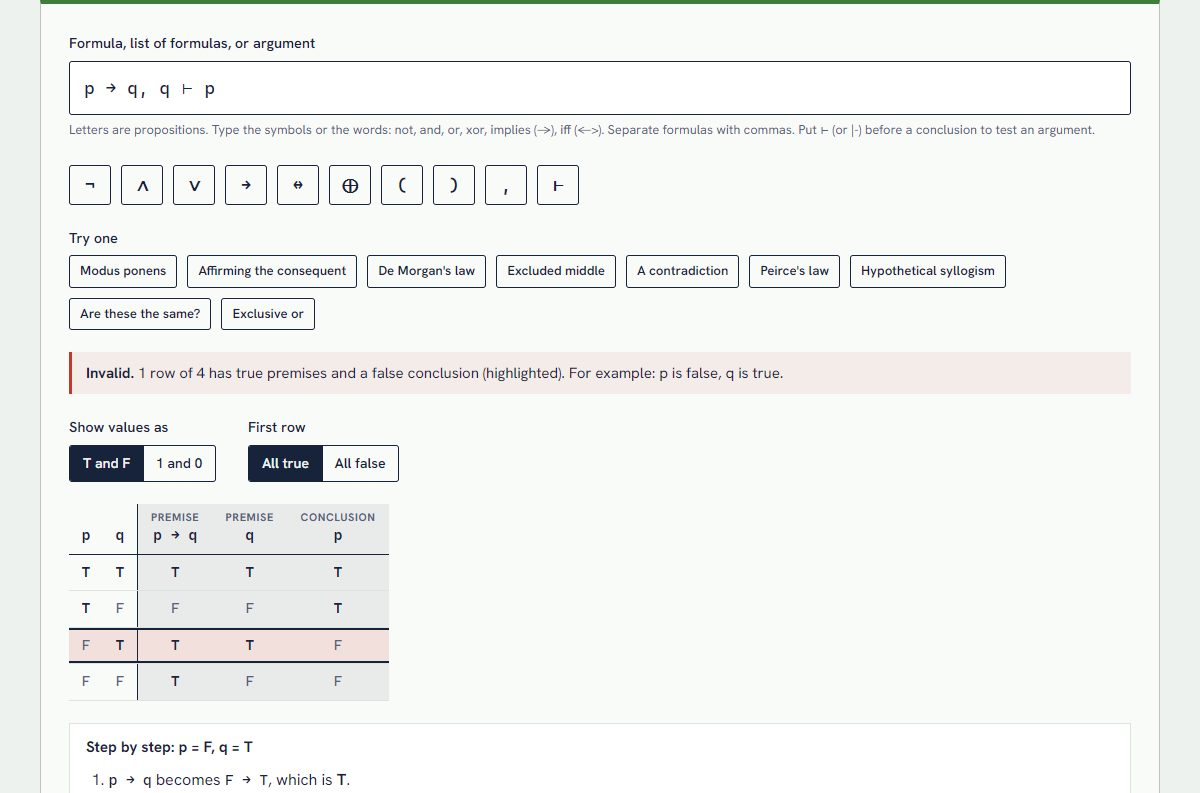
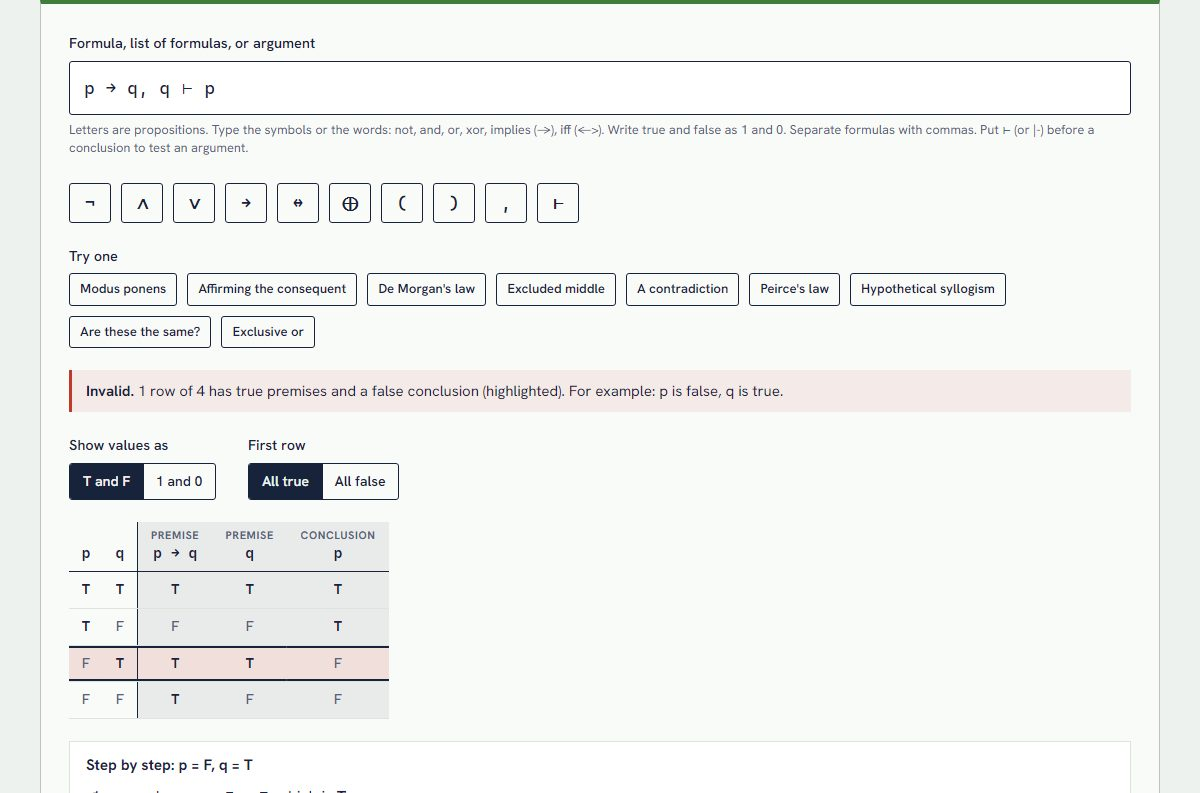
Review project 2: reject contradictions and mismatched brackets, input limits, correct Tractatus references

diff --git a/365projects/2/app.js b/365projects/2/app.js
@@ -28,8 +28,11 @@ input.addEventListener("input", () => { state.text = input.value; state.row = -1
 function insert(symbol) {
   const start = input.selectionStart ?? input.value.length;
   const end = input.selectionEnd ?? start;
-  const pad = ["(", ")", "¬"].includes(symbol) ? symbol : symbol === "," ? ", " : ` ${symbol} `;
-  input.value = input.value.slice(0, start) + pad + input.value.slice(end);
+  const before = input.value.slice(0, start), after = input.value.slice(end);
+  let pad = ["(", ")", "¬"].includes(symbol) ? symbol : symbol === "," ? ", " : ` ${symbol} `;
+  if (pad.startsWith(" ") && (!before || before.endsWith(" "))) pad = pad.slice(1);
+  if (pad.endsWith(" ") && after.startsWith(" ")) pad = pad.slice(0, -1);
+  input.value = before + pad + after;
   const caret = start + pad.length;
   input.focus();
   input.setSelectionRange(caret, caret);
@@ -51,21 +54,26 @@ const orderSeg = segmented({ label: "First row", value: "true", options: [{ valu
 const verdictBox = el("div", { role: "status", "aria-live": "polite" });
 const tableBox = el("div");
 const stepsBox = el("div");
+// Spoken when another row is chosen: what that row works out to. (Typing already announces the verdict.)
+const rowStatus = el("p", { class: "sr-only", role: "status" });
+let rowSummary = "";
 const extraBox = el("div");
 
 $("#app").append(
   el("div", { class: "field" },
     el("div", { class: "lab" }, el("label", { for: "formula", text: "Formula, list of formulas, or argument" })),
     input,
-    el("div", { class: "hint", id: "formula-help" }, "Letters are propositions. Type the symbols or the words: not, and, or, xor, implies (->), iff (<->). Separate formulas with commas. Put ⊢ (or |-) before a conclusion to test an argument.")),
+    el("div", { class: "hint", id: "formula-help" }, "Letters are propositions. Type the symbols or the words: not, and, or, xor, implies (->), iff (<->). Write true and false as 1 and 0. Separate formulas with commas. Put ⊢ (or |-) before a conclusion to test an argument.")),
   keyRow,
   el("div", { class: "field" }, el("div", { class: "lab" }, el("span", { text: "Try one" })), exampleRow),
   verdictBox,
   el("div", { class: "row", style: { gap: "20px 32px", alignItems: "flex-start" } }, marksSeg.el, orderSeg.el),
-  tableBox, stepsBox, extraBox);
+  tableBox, rowStatus, stepsBox, extraBox);
 
 /* ---------- rendering ---------- */
 const plural = (n, word) => `${fmt.int(n)} ${word}${n === 1 ? "" : "s"}`;
+const ROLE_TITLE = { formula: "A formula you typed", premise: "This column is a premise", conclusion: "This column is the conclusion", "premise and conclusion": "This column is both a premise and the conclusion" };
+const focusRow = () => tableBox.querySelector(`tr[data-row="${state.row}"]`)?.focus();
 const describeRow = (r, vars) => (vars.length ? vars.map((v) => `${v} is ${r.env[v] ? "true" : "false"}`).join(", ") : "the only row");
 
 function verdictNote(result) {
@@ -75,39 +83,44 @@ function verdictNote(result) {
     const f = result.columns.find((c) => c.kind === "main").text;
     if (v.kind === "tautology") return note("good", el("strong", { text: "Tautology. " }), `${f} is true in all ${plural(n, "row")}: no assignment of truth values can make it false.`);
     if (v.kind === "contradiction") return note("bad", el("strong", { text: "Contradiction. " }), `${f} is false in all ${plural(n, "row")}: no assignment of truth values can make it true.`);
-    return note("", el("strong", { text: "Contingent. " }), `${f} is true in ${fmt.int(v.trueRows)} of ${plural(n, "row")} and false in the other ${fmt.int(n - v.trueRows)}, so its truth depends on the facts.`);
+    return note("", el("strong", { text: "Contingent. " }), `${f} is true in ${fmt.int(v.trueRows)} of ${plural(n, "row")} and false in the other ${n - v.trueRows === 1 ? "one" : fmt.int(n - v.trueRows)}, so its truth depends on the facts.`);
   }
   if (v.type === "argument") {
     if (v.valid) {
       const vacuous = v.premisesTogetherTrue === 0 && result.premises.length;
       return note("good", el("strong", { text: "Valid. " }),
         vacuous ? "The premises are never all true together, so no row can have true premises and a false conclusion. The argument is valid, but only because its premises contradict each other."
-          : result.premises.length ? `In every one of the ${plural(v.premisesTogetherTrue, "row")} where all the premises are true, the conclusion is true as well.`
+          : result.premises.length ? `${v.premisesTogetherTrue === 1 ? "In the one row" : `In every one of the ${fmt.int(v.premisesTogetherTrue)} rows`} where ${result.premises.length === 1 ? "the premise is" : "all the premises are"} true, the conclusion is true as well.`
             : "With no premises, the conclusion has to be true in every row, and it is.");
     }
     const first = result.rows[v.counterexamples[0]];
     return note("bad", el("strong", { text: "Invalid. " }),
-      `${plural(v.counterexamples.length, "row")} of ${fmt.int(n)} ${v.counterexamples.length === 1 ? "has" : "have"} true premises and a false conclusion (highlighted). For example: ${describeRow(first, result.vars)}.`);
+      `${plural(v.counterexamples.length, "row")} of ${fmt.int(n)} ${v.counterexamples.length === 1 ? "has" : "have"} ${result.premises.length ? `${result.premises.length === 1 ? "a true premise" : "true premises"} and ` : ""}a false conclusion (highlighted). For example: ${describeRow(first, result.vars)}.`);
   }
-  const lines = v.pairs.map((p) => el("li", {}, el("span", { class: "mono", text: p.a }), p.equivalent ? " and " : " and ", el("span", { class: "mono", text: p.b }),
+  const lines = v.pairs.map((p) => el("li", {}, el("span", { class: "mono", text: p.a }), " and ", el("span", { class: "mono", text: p.b }),
     p.equivalent ? " are equivalent: their columns match in every row." : ` are not equivalent: they differ in ${plural(p.differ.length, "row")}.`));
   return note(v.pairs.every((p) => p.equivalent) ? "good" : "", el("strong", { text: `${plural(v.each.length, "formula")} compared. ` }),
-    `All of them are true together in ${plural(v.jointlyTrue, "row")} of ${fmt.int(n)}.`, el("ul", { class: "pairs" }, lines));
+    `${v.each.length === 2 ? "Both" : "All of them"} are true together in ${plural(v.jointlyTrue, "row")} of ${fmt.int(n)}.`, el("ul", { class: "pairs" }, lines));
 }
 
 function update() {
   const result = analyse(state.text);
   if (result.error) {
     input.classList.add("invalid");
-    verdictBox.replaceChildren(note("bad", result.error,
-      state.text.trim() ? el("div", { class: "mono caret-line" }, state.text, "\n", " ".repeat(Math.min(result.pos, state.text.length)), "^") : null));
+    // The box is already a polite live region. An alert on every keystroke of a half-typed formula would be too much.
+    const problem = note("bad", result.error,
+      result.pos != null && state.text.trim() ? el("div", { class: "mono caret-line" }, state.text, "\n", " ".repeat(Math.min(result.pos, state.text.length)), "^") : null);
+    problem.removeAttribute("role");
+    verdictBox.replaceChildren(problem);
     tableBox.replaceChildren();
     stepsBox.replaceChildren();
     extraBox.replaceChildren();
     return;
   }
   input.classList.remove("invalid");
-  verdictBox.replaceChildren(verdictNote(result));
+  const verdict = verdictNote(result);
+  verdict.removeAttribute("role"); // "Invalid" is an answer, not an alarm: the polite live region around it is enough
+  verdictBox.replaceChildren(verdict);
 
   const order = result.rows.map((_, i) => i);
   if (state.order === "false") order.reverse();
@@ -122,42 +135,48 @@ function update() {
 
   const head = el("tr", {},
     result.vars.map((v) => el("th", { scope: "col", class: "var", text: v })),
-    result.columns.map((c, i) => el("th", { scope: "col", class: `${c.kind}${i === 0 ? " first" : ""}`, title: c.role ? `This column is the ${c.role}` : "A step on the way" },
+    result.columns.map((c, i) => el("th", { scope: "col", class: `${c.kind}${i === 0 ? " first" : ""}`, title: ROLE_TITLE[c.role] || "A step on the way" },
       c.role && c.role !== "formula" ? el("span", { class: "role", text: c.role }) : null, c.text)));
   const body = shown.map((i) => {
     const r = result.rows[i];
-    return el("tr", { class: `${i === state.row ? "sel" : ""}${counter.has(i) ? " counter" : ""}`, tabindex: "0", "aria-selected": String(i === state.row), dataset: { row: i },
+    // One tab stop for the whole table: the selected row. The arrow keys move between rows.
+    return el("tr", { class: `${i === state.row ? "sel" : ""}${counter.has(i) ? " counter" : ""}`, tabindex: i === state.row ? "0" : "-1", "aria-selected": String(i === state.row), dataset: { row: i },
       title: "Show how this row is worked out" },
       result.vars.map((v) => el("td", { class: `var ${r.env[v] ? "t" : "f"}`, text: mark(r.env[v]) })),
       r.values.map((val, j) => el("td", { class: `${result.columns[j].kind} ${val ? "t" : "f"}${j === 0 ? " first" : ""}`, text: mark(val) })));
   });
-  const tbl = el("table", { class: "tbl truth" }, el("caption", { class: "sr-only", text: "Truth table. Select a row to see it evaluated step by step." }), el("thead", {}, head), el("tbody", {}, body));
-  const pickRow = (target) => {
-    const tr = target.closest("tr[data-row]");
-    if (tr) { state.row = Number(tr.dataset.row); update(); tableBox.querySelector(`tr[data-row="${state.row}"]`)?.focus(); }
-  };
-  tbl.addEventListener("click", (e) => pickRow(e.target));
-  tbl.addEventListener("keydown", (e) => { if (e.key === "Enter" || e.key === " ") { e.preventDefault(); pickRow(e.target); } });
+  const tbl = el("table", { class: "tbl truth" }, el("caption", { class: "sr-only", text: "Truth table. Select a row to see it evaluated step by step. The up and down arrow keys move between rows." }), el("thead", {}, head), el("tbody", {}, body));
+  const pickRow = (row) => { state.row = row; update(); focusRow(); rowStatus.textContent = rowSummary; };
+  tbl.addEventListener("click", (e) => { const tr = e.target.closest("tr[data-row]"); if (tr) pickRow(Number(tr.dataset.row)); });
+  tbl.addEventListener("keydown", (e) => {
+    const at = shown.indexOf(state.row);
+    const to = { ArrowDown: at + 1, ArrowUp: at - 1, Home: 0, End: shown.length - 1 }[e.key];
+    if (to == null || !e.target.closest("tr[data-row]")) return;
+    e.preventDefault();
+    if (to >= 0 && to < shown.length) pickRow(shown[to]);
+  });
 
   tableBox.replaceChildren(el("div", { class: "tbl-wrap" }, tbl));
   if (order.length > limit) {
     tableBox.append(el("div", { class: "row", style: { marginTop: "10px" } },
       el("span", { class: "small muted", text: `Showing ${fmt.int(limit)} of ${fmt.int(order.length)} rows. The verdict above uses all of them.` }),
-      button(`Show all ${fmt.int(order.length)}`, () => { state.showAll = true; update(); }, { small: true })));
+      button(`Show all ${fmt.int(order.length)}`, () => { state.showAll = true; update(); focusRow(); }, { small: true })));
   }
 
   const row = result.rows[state.row];
   const list = steps(result, state.row, mark);
   let rowVerdict = null;
   if (result.verdict.type === "argument") {
-    const falsePremise = result.columns.find((c, j) => c.role === "premise" && !row.values[j]);
-    const conclusionTrue = row.values[result.columns.findIndex((c) => c.role === "conclusion")];
+    const falsePremise = result.premises.find((_, k) => !result.verdict.premiseValues[k][state.row]);
+    const conclusionTrue = result.verdict.conclusionValues[state.row];
+    const allPremises = result.premises.length === 1 ? "The premise is" : "Every premise is";
     rowVerdict = falsePremise
-      ? `The premise ${falsePremise.text} is false in this row, so the row cannot count against the argument, whatever the conclusion is.`
+      ? `The premise ${falsePremise} is false in this row, so the row cannot count against the argument, whatever the conclusion is.`
       : conclusionTrue
-        ? `${result.premises.length ? "Every premise is true in this row and the conclusion is true as well" : "The conclusion is true in this row"}, so the row is no threat to the argument.`
-        : `${result.premises.length ? "Every premise is true in this row and the conclusion is false" : "The conclusion is false in this row"}. This is a counterexample: it shows the argument is invalid.`;
+        ? `${result.premises.length ? `${allPremises} true in this row and the conclusion is true as well` : "The conclusion is true in this row"}, so the row is no threat to the argument.`
+        : `${result.premises.length ? `${allPremises} true in this row and the conclusion is false` : "The conclusion is false in this row"}. This is a counterexample: it shows the argument is invalid.`;
   }
+  rowSummary = [list.map((s) => `${s.formula} is ${s.value ? "true" : "false"}`).join(", "), rowVerdict].filter(Boolean).join(". ");
   stepsBox.replaceChildren(el("div", { class: "panel" },
     el("h3", { text: `Step by step: ${result.vars.length ? result.vars.map((v) => `${v} = ${mark(row.env[v])}`).join(", ") : "no letters to assign"}` }),
     list.length
@@ -171,8 +190,10 @@ function update() {
     extraBox.replaceChildren(el("div", { class: "panel" },
       el("h3", { text: "The same truth function in normal form" }),
       el("dl", { class: "forms" },
-        el("dt", { text: "Disjunctive (one bracket for each true row)" }), el("dd", { class: "mono", text: result.normal.dnf }),
-        el("dt", { text: "Conjunctive (one bracket for each false row)" }), el("dd", { class: "mono", text: result.normal.cnf }))));
+        el("dt", { text: "Disjunctive (one term for each true row; ⊥ if there is none)" }), el("dd", { class: "mono", text: result.normal.dnf }),
+        el("dt", { text: "Conjunctive (one term for each false row; ⊤ if there is none)" }), el("dd", { class: "mono", text: result.normal.cnf }))));
+  } else if (result.normal) {
+    extraBox.replaceChildren(el("p", { class: "small muted", text: `The normal forms are left out for formulas with more than 4 letters: this one could need ${fmt.int(result.rows.length)} terms.` }));
   } else extraBox.replaceChildren();
 }
 

diff --git a/365projects/2/logic.js b/365projects/2/logic.js
@@ -1,6 +1,8 @@
 // Day 2: Truth Table Playground. Parser and evaluator for propositional logic, with no DOM code.
 
 export const MAX_VARS = 10;
+export const MAX_LENGTH = 1000;
+const MAX_DEPTH = 100;
 
 const WORDS = {
   not: "not", and: "and", or: "or", xor: "xor", nand: "nand", nor: "nor",
@@ -8,7 +10,7 @@ const WORDS = {
 };
 // Longest spellings first so "<->" is not read as "<" followed by "->".
 const SYMBOLS = [
-  ["<->", "iff"], ["<=>", "iff"], ["->", "imp"], ["=>", "imp"], ["&&", "and"], ["||", "or"], ["|-", "turnstile"],
+  ["<->", "iff"], ["<=>", "iff"], ["->", "imp"], ["=>", "imp"], ["&&", "and"], ["||", "or"], ["|-", "turnstile"], ["==", "iff"], ["!=", "xor"],
   ["¬", "not"], ["~", "not"], ["!", "not"], ["∧", "and"], ["&", "and"], ["·", "and"], ["∨", "or"], ["|", "or"],
   ["⊕", "xor"], ["^", "xor"], ["→", "imp"], ["⇒", "imp"], ["↔", "iff"], ["⇔", "iff"], ["=", "iff"],
   ["↑", "nand"], ["↓", "nor"], ["⊢", "turnstile"], ["∴", "turnstile"], ["⊤", "true"], ["⊥", "false"],
@@ -28,7 +30,8 @@ export function tokenize(text) {
   while (i < text.length) {
     const ch = text[i];
     if (/\s/.test(ch)) { i++; continue; }
-    const word = /^[A-Za-z_][A-Za-z0-9_']*/.exec(text.slice(i));
+    // Any alphabet will do for a letter, so φ → ψ works as well as p → q.
+    const word = /^[\p{L}_][\p{L}\p{N}_']*/u.exec(text.slice(i));
     if (word) {
       const w = word[0];
       const key = WORDS[w.toLowerCase()];
@@ -51,6 +54,9 @@ function parseTokens(tokens, textLength) {
   const at = (...types) => peek() && types.includes(peek().type);
   const describe = (t) => (t ? `"${t.raw}"` : "the end of the formula");
   const where = (t) => (t ? t.pos : textLength);
+  const startsFormula = (t) => t && ["var", "(", "not", "true", "false"].includes(t.type);
+  const meet = (t) => new ParseError(`Two formulas meet at position ${t.pos + 1} with no connective between them. Add ∧, ∨, → or a comma.`, t.pos);
+  const open = []; // the brackets currently open, innermost last
 
   const binary = (next, ops, rightAssoc = false) => function level() {
     let left = next();
@@ -71,13 +77,28 @@ function parseTokens(tokens, textLength) {
     if (t.type === "var") { k++; return { op: "var", name: t.name }; }
     if (t.type === "true" || t.type === "false") { k++; return { op: "const", value: t.type === "true" }; }
     if (t.type === "(") {
+      if (open.length >= MAX_DEPTH) throw new ParseError(`Brackets are nested more than ${MAX_DEPTH} deep at position ${t.pos + 1}. That is as far as this page goes.`, t.pos);
       k++;
+      if (at(")")) throw new ParseError(`The brackets at position ${t.pos + 1} are empty. Put a formula inside them or remove them.`, t.pos);
+      open.push(t);
       const inner = formula();
-      if (!at(")")) throw new ParseError(`A bracket opened at position ${t.pos + 1} is never closed.`, where(peek()));
+      const next = peek();
+      if (!at(")")) {
+        if (startsFormula(next)) throw meet(next);
+        if (next && (next.type === "sep" || next.type === "turnstile")) throw new ParseError(`${next.type === "sep" ? "A comma" : "⊢"} cannot go inside brackets (position ${next.pos + 1}). It separates whole formulas.`, next.pos);
+        throw new ParseError(`A bracket opened at position ${t.pos + 1} is never closed.`, where(next));
+      }
+      // Round and square brackets both work, but a pair must be of one kind.
+      if ((t.raw === "(") !== (next.raw === ")")) throw new ParseError(`The bracket opened with ${t.raw} at position ${t.pos + 1} is closed with ${next.raw} at position ${next.pos + 1}. Use the same kind for both.`, next.pos);
+      open.pop();
       k++;
       return inner;
     }
-    if (t.type === ")") throw new ParseError(`There is a closing bracket at position ${t.pos + 1} with nothing to close.`, t.pos);
+    if (t.type === ")") {
+      throw open.length
+        ? new ParseError(`Something is missing before the closing bracket at position ${t.pos + 1}.`, t.pos)
+        : new ParseError(`There is a closing bracket at position ${t.pos + 1} with nothing to close.`, t.pos);
+    }
     throw new ParseError(`Expected a letter, a bracket or ¬ at position ${t.pos + 1}, but found ${describe(t)}.`, t.pos);
   }
   const and = binary(unary, ["and", "nand"]);
@@ -99,9 +120,7 @@ function parseTokens(tokens, textLength) {
   }
   if (k < tokens.length) {
     const t = peek();
-    if (t.type === "var" || t.type === "(" || t.type === "not" || t.type === "true" || t.type === "false") {
-      throw new ParseError(`Two formulas meet at position ${t.pos + 1} with no connective between them. Add ∧, ∨, → or a comma.`, t.pos);
-    }
+    if (startsFormula(t)) throw meet(t);
     if (t.type === "turnstile") throw new ParseError("Use only one ⊢. Everything before it is a premise and the one formula after it is the conclusion.", t.pos);
     if (t.type === "sep") throw new ParseError("After ⊢ there can be only one conclusion.", t.pos);
     if (t.type === ")") throw new ParseError(`There is a closing bracket at position ${t.pos + 1} with nothing to close.`, t.pos);
@@ -110,8 +129,9 @@ function parseTokens(tokens, textLength) {
   return { premises, conclusion, isArgument: sawTurnstile };
 }
 
-/** Parse text into { premises: [ast], conclusion: ast | null, isArgument }. Throws an Error with .pos on bad input. */
+/** Parse text into { premises: [ast], conclusion: ast | null, isArgument }. Throws an Error with .pos on bad input (pos is null when no one place is at fault). */
 export function parse(text) {
+  if (text.length > MAX_LENGTH) throw new ParseError(`This is ${text.length.toLocaleString("en-GB")} characters long. The limit is ${MAX_LENGTH.toLocaleString("en-GB")}.`, null);
   return parseTokens(tokenize(text), text.length);
 }
 
@@ -196,25 +216,29 @@ export function normalForms(vars, rows, values) {
  */
 export function analyse(text) {
   let parsed;
-  try { parsed = parse(text); } catch (e) { return { error: e.message, pos: e.pos ?? 0 }; }
+  try { parsed = parse(text); } catch (e) {
+    // Anything but a ParseError here is the JavaScript engine running out of stack on a very long formula.
+    return e instanceof ParseError ? { error: e.message, pos: e.pos } : { error: "This formula is too long for the page to work through. Try a shorter one.", pos: null };
+  }
   const mains = [...parsed.premises, ...(parsed.conclusion ? [parsed.conclusion] : [])];
   const vars = variables(mains);
   if (vars.length > MAX_VARS) {
-    return { error: `This uses ${vars.length} letters, which would need ${(2 ** vars.length).toLocaleString("en-GB")} rows. The limit is ${MAX_VARS} letters.`, pos: 0 };
+    return { error: `This uses ${vars.length} letters, which would need ${(2 ** vars.length).toLocaleString("en-GB")} rows. The limit is ${MAX_VARS} letters.`, pos: null };
   }
   const mainText = mains.map((m) => show(m));
+  // A formula can be typed more than once, so a column can be a premise and the conclusion at the same time.
+  const roleOf = (text) => {
+    if (!mainText.includes(text)) return null;
+    if (!parsed.isArgument) return "formula";
+    const premise = parsed.premises.some((_, i) => mainText[i] === text);
+    const conclusion = mainText[mainText.length - 1] === text;
+    return premise && conclusion ? "premise and conclusion" : premise ? "premise" : "conclusion";
+  };
   const subs = subformulas(mains);
-  const columns = subs.map((s) => {
-    const idx = mainText.lastIndexOf(s.text);
-    const role = idx < 0 ? null : parsed.isArgument ? (parsed.conclusion && idx === mains.length - 1 ? "conclusion" : "premise") : "formula";
-    return { text: s.text, ast: s.ast, kind: idx < 0 ? "sub" : "main", role };
-  });
+  const columns = subs.map((s) => ({ text: s.text, ast: s.ast, kind: mainText.includes(s.text) ? "main" : "sub", role: roleOf(s.text) }));
   // A main formula that is a bare letter or constant has no column of its own yet.
   mains.forEach((m, i) => {
-    if (m.op === "var" || m.op === "const") {
-      const role = parsed.isArgument ? (parsed.conclusion && i === mains.length - 1 ? "conclusion" : "premise") : "formula";
-      if (!columns.some((c) => c.text === mainText[i] && c.kind === "main")) columns.push({ text: mainText[i], ast: m, kind: "main", role });
-    }
+    if ((m.op === "var" || m.op === "const") && !columns.some((c) => c.text === mainText[i])) columns.push({ text: mainText[i], ast: m, kind: "main", role: roleOf(mainText[i]) });
   });
 
   const rows = [];
@@ -230,7 +254,7 @@ export function analyse(text) {
     const concl = column(parsed.conclusion);
     const counter = rows.map((_, i) => i).filter((i) => prem.every((p) => p[i]) && !concl[i]);
     const allTrue = rows.map((_, i) => i).filter((i) => prem.every((p) => p[i]));
-    result.verdict = { type: "argument", valid: counter.length === 0, counterexamples: counter, premisesTogetherTrue: allTrue.length };
+    result.verdict = { type: "argument", valid: counter.length === 0, counterexamples: counter, premisesTogetherTrue: allTrue.length, premiseValues: prem, conclusionValues: concl };
   } else if (mains.length === 1) {
     const values = column(mains[0]);
     result.verdict = { type: "formula", ...classify(values) };

diff --git a/365projects/2/index.html b/365projects/2/index.html
@@ -14,6 +14,8 @@
     .formula-input { font-size: 1.15rem !important; padding: 12px 14px !important; }
     .keys .key { font-family: var(--mono); font-size: 1.05rem; min-width: 42px; padding: 6px 10px; }
     .caret-line { white-space: pre; overflow-x: auto; margin-top: 8px; }
+    /* A letter can be a long word; let it wrap instead of pushing the page sideways. */
+    #app .note, #app .panel { overflow-wrap: anywhere; }
     .pairs { margin: 8px 0 0; padding-left: 1.2em; }
     .pairs li + li { margin-top: 4px; }
     table.truth { width: auto; min-width: min(100%, 320px); font-family: var(--mono); font-size: 0.95rem; }
@@ -26,7 +28,8 @@
     table.truth th.main, table.truth td.main { background: color-mix(in srgb, var(--ink) 7%, transparent); }
     table.truth tbody tr { cursor: pointer; }
     table.truth tbody tr.counter td { background: color-mix(in srgb, var(--bad) 14%, transparent); }
-    table.truth tbody tr.sel td { box-shadow: inset 0 2px 0 var(--ink), inset 0 -2px 0 var(--ink); }
+    /* Rules above and below the selected row, drawn as backgrounds: an inset box-shadow on a cell leaves a stray vertical line in Firefox. */
+    table.truth tbody tr.sel td { background-image: linear-gradient(var(--ink), var(--ink)), linear-gradient(var(--ink), var(--ink)); background-size: 100% 2px; background-position: top, bottom; background-repeat: no-repeat; }
     table.truth tbody tr:focus-visible { outline: 3px solid var(--focus); outline-offset: -3px; }
     .steps { margin: 10px 0 0; padding-left: 1.4em; display: grid; gap: 6px; }
     .steps .f { color: var(--slate); }
@@ -48,7 +51,7 @@
 
     <section class="p-sec finding">
       <h2>One finding</h2>
-      <p>Affirming the consequent ("if p then q; q; therefore p") is invalid because of exactly one of its four rows: p false and q true. Modus ponens differs by one letter and has no such row. One row is all it takes to sink an argument, and no number of agreeable rows can save it.</p>
+      <p>Affirming the consequent ("if p then q; q; therefore p") is invalid because of exactly one of its four rows: p false and q true. Modus ponens uses the same three formulas with the second premise and the conclusion swapped, and has no such row. One row is all it takes to sink an argument, and no number of agreeable rows can save it.</p>
     </section>
 
     <section class="p-sec">
@@ -76,7 +79,7 @@
         <li><strong>Several formulas.</strong> Two formulas are logically equivalent when their columns agree in every row. The page checks each pair.</li>
       </ul>
       <h3>Normal forms</h3>
-      <p>Any truth table can be written as a formula using only ¬, ∧ and ∨. Take each row where the formula is true, write the conjunction that describes that row exactly, and join them with ∨: that is the disjunctive normal form. The conjunctive form does the mirror image with the false rows. This is the proof that those three connectives are enough to express every truth function.</p>
+      <p>Any truth table can be written as a formula using only ¬, ∧ and ∨. Take each row where the formula is true, write the conjunction that describes that row exactly, and join them with ∨: that is the disjunctive normal form. The conjunctive form does the mirror image with the false rows. This is the proof that those three connectives are enough to express every truth function. (A formula with no true row has nothing to join, so the page prints ⊥ for it; <var>p</var> ∧ ¬<var>p</var> says the same with the three connectives. The same goes for ⊤ when there is no false row.) The page shows both forms for formulas with up to four letters.</p>
     </section>
 
     <section class="p-sec">
@@ -105,7 +108,7 @@
     <section class="p-sec">
       <h2>Sources</h2>
       <ul class="refs">
-        <li>Wittgenstein, L. (1921). <em>Tractatus Logico-Philosophicus</em>. Truth tables appear at 4.31 and 5.101.</li>
+        <li>Wittgenstein, L. (1921). Logisch-philosophische Abhandlung. <em>Annalen der Naturphilosophie</em>, 14. In English as <em>Tractatus Logico-Philosophicus</em> (1922). The rows of a truth table are set out at 4.31, a complete table at 4.442 and the sixteen truth functions of two propositions at 5.101.</li>
         <li>Post, E. L. (1921). Introduction to a general theory of elementary propositions. <em>American Journal of Mathematics</em>, 43(3), 163-185.</li>
         <li>Cook, S. A. (1971). The complexity of theorem-proving procedures. <em>Proceedings of the Third Annual ACM Symposium on Theory of Computing</em>, 151-158.</li>
       </ul>
